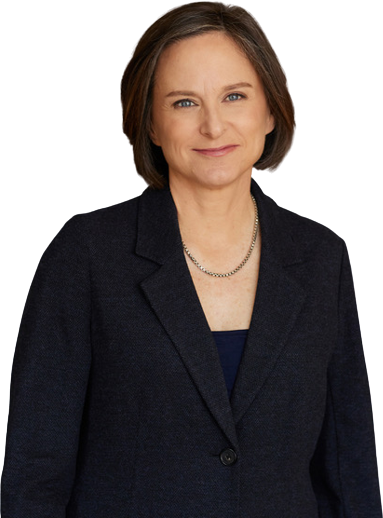
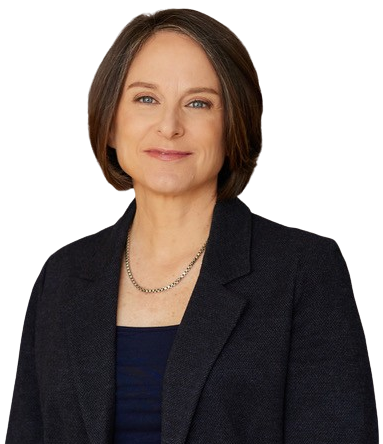
changed hero image sticky header added fevicon added menu alignment fixed

diff --git a/public_html/style.css b/public_html/style.css
@@ -111,6 +111,11 @@ img {
     box-shadow: 0 10px 30px 0 rgba(0, 0, 0, 0.15);
 }
 
+.cbailylaw__call-to-action .cbailylaw__call-to-action_btn {
+    height: 48px;
+    line-height: 48px;
+}
+
 
 /* Common style css */
 
@@ -121,6 +126,50 @@ img {
     top: 0;
     left: 0;
     z-index: 999;
+    transition: all 0.4s ease;
+}
+
+.sticky__header {
+    position: fixed !important;
+    width: 100% !important;
+    top: 0;
+    left: 0;
+    right: 0;
+    box-shadow: 0 3px 4px rgba(0, 0, 0, 0.07);
+    animation: stickyHead 0.4s;
+    background: var(--color-primary);
+    border-bottom: 1px solid var(--color-line);
+}
+
+.sticky__header .cbailylaw_header_inner {
+    border-bottom: none;
+    height: unset;
+    padding: 15px 0;
+}
+
+.sticky__header .cbailylaw_header_inner .cbailylaw__call-to-action_btn {
+    height: 40px;
+    line-height: 40px;
+}
+
+.sticky__header .cbailylaw__logo a {
+    font-size: 28px;
+}
+
+.sticky__header .cbailylaw__menu {
+    width: 68%;
+}
+
+@keyframes stickyHead {
+    0% {
+        opacity: 0;
+        transform: translateY(-100%);
+    }
+
+    100% {
+        opacity: 1;
+        transform: translateY(0);
+    }
 }
 
 .cbailylaw_header_inner {
@@ -145,10 +194,14 @@ img {
 }
 
 /* Navigation */
+.cbailylaw__menu {
+    width: 60%;
+}
+
 .cbailylaw__menu ul {
     display: flex;
     align-items: center;
-    justify-content: center;
+    justify-content: flex-end;
 }
 
 .cbailylaw__menu ul li:not(:last-child) {
@@ -204,19 +257,19 @@ img {
 }
 
 .cbailylaw__hero-inner {
-    min-height: 900px;
-    max-width: 1200px;
+    min-height: 800px;
+    max-width: 1300px;
     margin: auto;
-    display: flex;
-    flex-wrap: wrap;
-    align-items: center;
-    justify-content: center;
-    padding-top: 100px;
+    display: grid;
+    grid-template-columns: 53% 47%;
+    grid-template-rows: auto;
+    align-content: center;
 }
 
 .cbailylaw__hero-content {
-    width: 55%;
-    padding-right: 100px;
+    padding-right: 30px;
+    height: 100%;
+    padding-top: 80px;
 }
 
 .cbailylaw__hero-content h1 {
@@ -241,16 +294,16 @@ img {
 }
 
 .cbailylaw__hero-img {
-    width: 45%;
     position: relative;
     z-index: 1;
 }
 
 .cbailylaw__hero-img img {
-    height: 648px;
-    display: table;
-    margin: auto;
-    margin-bottom: -150px;
+    height: 600px;
+    object-fit: contain;
+    width: 100%;
+    position: absolute;
+    bottom: -15%;
 }
 
 .cbailylaw__hero-img__bg-shape,
@@ -262,11 +315,18 @@ img {
     left: 50%;
 }
 
+@media screen and (min-width:1440px) {
+    .cbailylaw__hero-img__bg-shape {
+        height: 680px;
+        width: 680px;
+    }
+}
+
 .cbailylaw__hero-img__bg-shape {
-    height: 680px;
-    width: 680px;
+    height: 580px;
+    width: 580px;
     background: #2e8a95;
-    transform: translate(-50%, -38%);
+    transform: translate(-50%, -35%);
     z-index: -1;
 }
 
@@ -335,7 +395,8 @@ img {
 }
 
 .cbailylaw__service--card img {
-    mix-blend-mode: screen;
+    mix-blend-mode: multiply;
+    filter: contrast(1);
     margin-bottom: 30px;
     height: 100px;
     width: 100px;
@@ -510,6 +571,7 @@ img {
     grid-template-columns: 50% 50%;
     gap: 50px;
 }
+
 .cbailylaw__testimonial-grid p {
     font: 300 20px/34px var(--font-body);
     color: var(--color-black);
@@ -540,10 +602,12 @@ Description: changed the SPAN to P tag added the class name for styling
 .cbailylaw__testimonial-grid .testimonial__author a {
     color: var(--color-primary);
 }
-.cbailylaw__testimonial-grid.cbailylaw__testimonial-grid__bottom .testimonial__author{
+
+.cbailylaw__testimonial-grid.cbailylaw__testimonial-grid__bottom .testimonial__author {
     border-color: var(--color-primary) !important;
 }
-.cbailylaw__testimonial-grid.cbailylaw__testimonial-grid__bottom .testimonial__author a{
+
+.cbailylaw__testimonial-grid.cbailylaw__testimonial-grid__bottom .testimonial__author a {
     border: none;
 }
 

diff --git a/public_html/index.html b/public_html/index.html
@@ -5,6 +5,7 @@
     <meta charset="UTF-8">
     <meta name="viewport" content="width=device-width, initial-scale=1.0, user-scalable=yes">
     <title>C Baily Law LLC</title>
+    <link rel="icon" type="image/x-icon" href="assets/imgs/favicon.png">
     <link rel="stylesheet" href="assets/css/font-awesome.min.css">
     <link rel="stylesheet" href="style.css">
     <link rel="stylesheet" href="assets/css/responsive.css">
@@ -191,6 +192,30 @@
                     </a>
                 </div>
                 <!-- End of about content -->
+                <!-- start about info row -->
+                <!-- <div class="about__info--row">
+                    <div class="about__info--col">
+                        <h3>Experience</h3>
+                        <ul>
+                            <li>General Counsel, Massachusetts Cannabis Control Commission, Worcester & Boston, MA. February 2018 to July 2023.</li>
+                            <li>Senior Staff Counsel, Office of the Chief Staff Counsel, Massachusetts Supreme Judicial Court, Boston. MA, February 2012
+                            to February 2018.</li>
+                            <li>Assistant Attorney General, Massachusetts Office of the Attorney General, Boston, MA. January 2004 to January 2012.</li>
+                            <li>Litigation Associate, Day, Berry & Howard LLP, Hartford, CT & Boston, MA. September 2000 to December 2003.</li>
+                            <li>Law Clerk to the Chief Justice and two Associate Justices, Connecticut Supreme Court, Hartford, CT. June 1999 to August
+                            2000.</li>
+                        </ul>
+                    </div>
+                    <div class="about__info--col">
+                        <h3>Education</h3>
+                        <ul>
+                            <li>Western New England University School of Law, J.D. cum laude awarded in 1999.</li>
+                            <li>Clark University, M.A. Developmental Psychology awarded in 1994. Also completed coursework toward a doctoral degree.</li>
+                            <li>Rutgers University, B.A. in English & Psychology, highest honors, awarded in 1990.</li>
+                        </ul>
+                    </div>
+                </div> -->
+                <!-- End of about info row -->
             </div>
         </section>
         <!-- End of About Section -->

diff --git a/public_html/assets/js/script.js b/public_html/assets/js/script.js
@@ -1,4 +1,5 @@
 $(document).ready(function () {
+    // "use strict";
 
     $(".cbailylaw__see-more").on('click', function (e) {
         e.preventDefault();
@@ -10,6 +11,22 @@ $(document).ready(function () {
     $toggler = $('.cbailylaw__mobile-menu__toggler');
     $toggler.on('click', function () {
         $('nav.cbailylaw__menu').toggle();
+    });
+
+    // Sticky Header
+
+    var $win = $(window);
+    var num = 90; //number of pixels before modifying styles
+
+    $win.bind('scroll', function () {
+        if ($win.width() >= 992) {
+            var $navbar = $('#cbailylaw_header');
+            if ($win.scrollTop() > num) {
+                $navbar.addClass('sticky__header');
+            } else {
+                $navbar.removeClass('sticky__header');
+            }
+        }
     });
 
 
